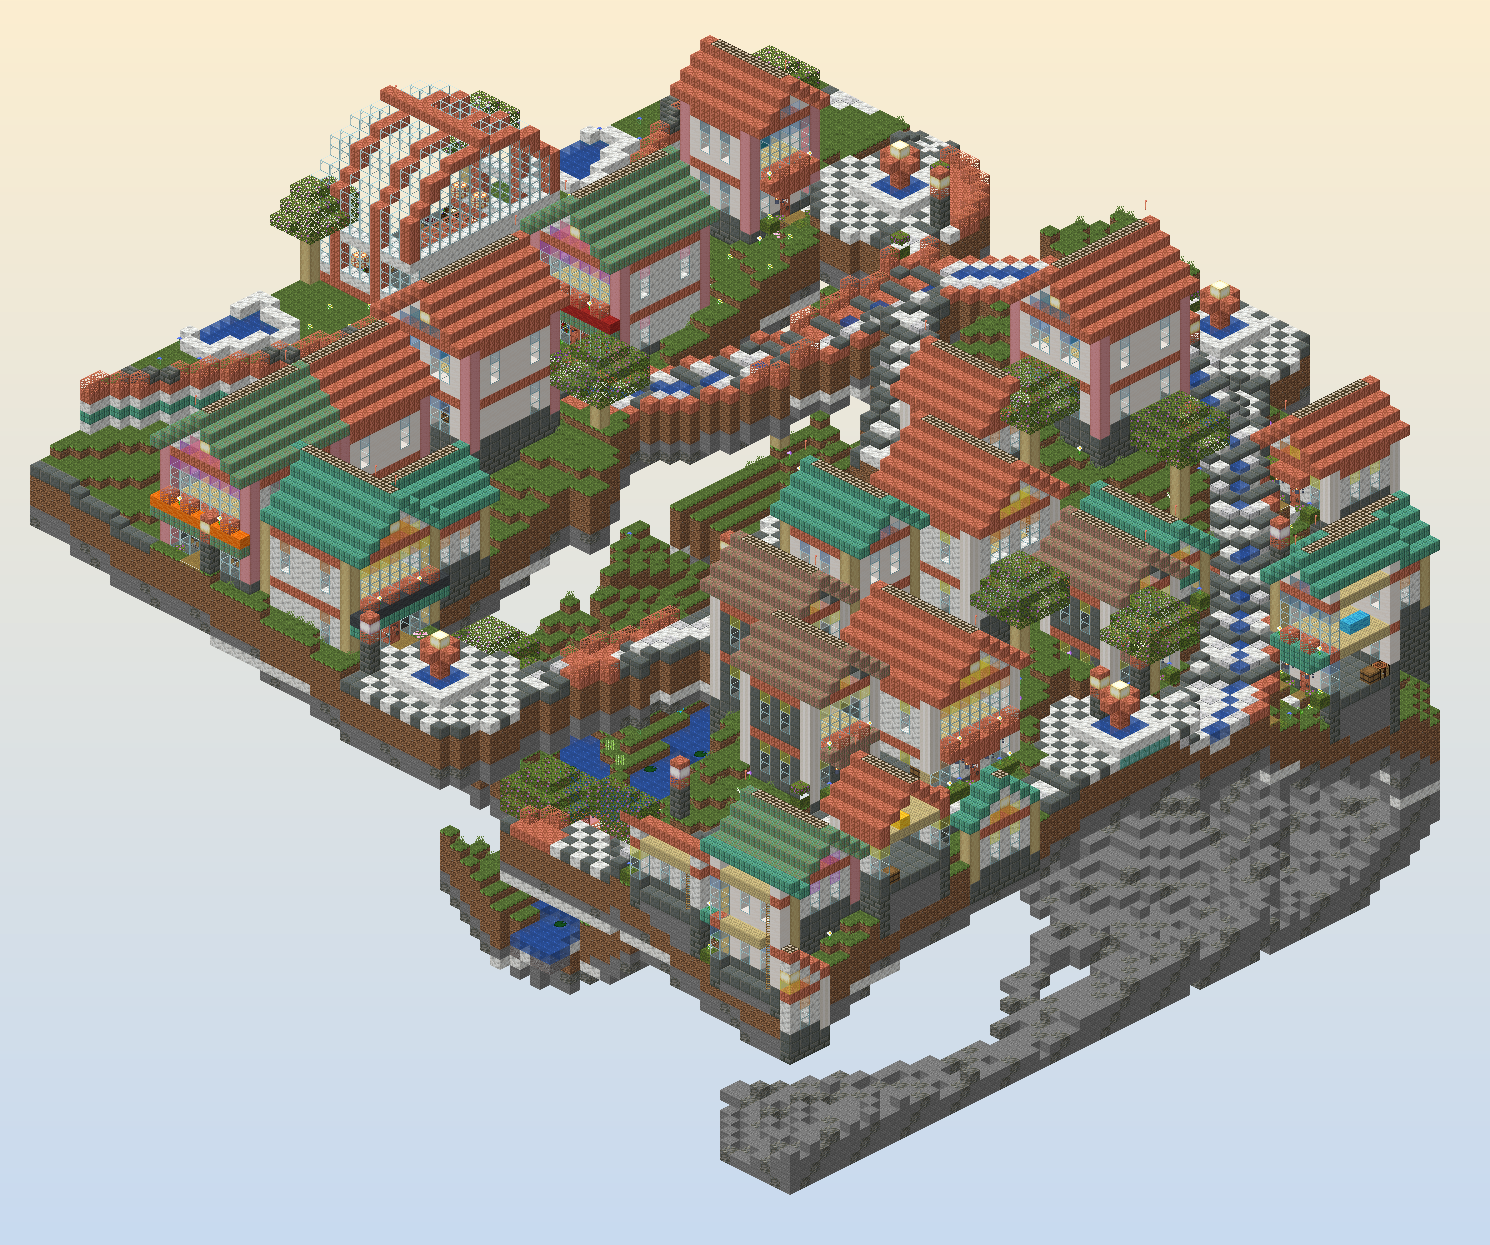
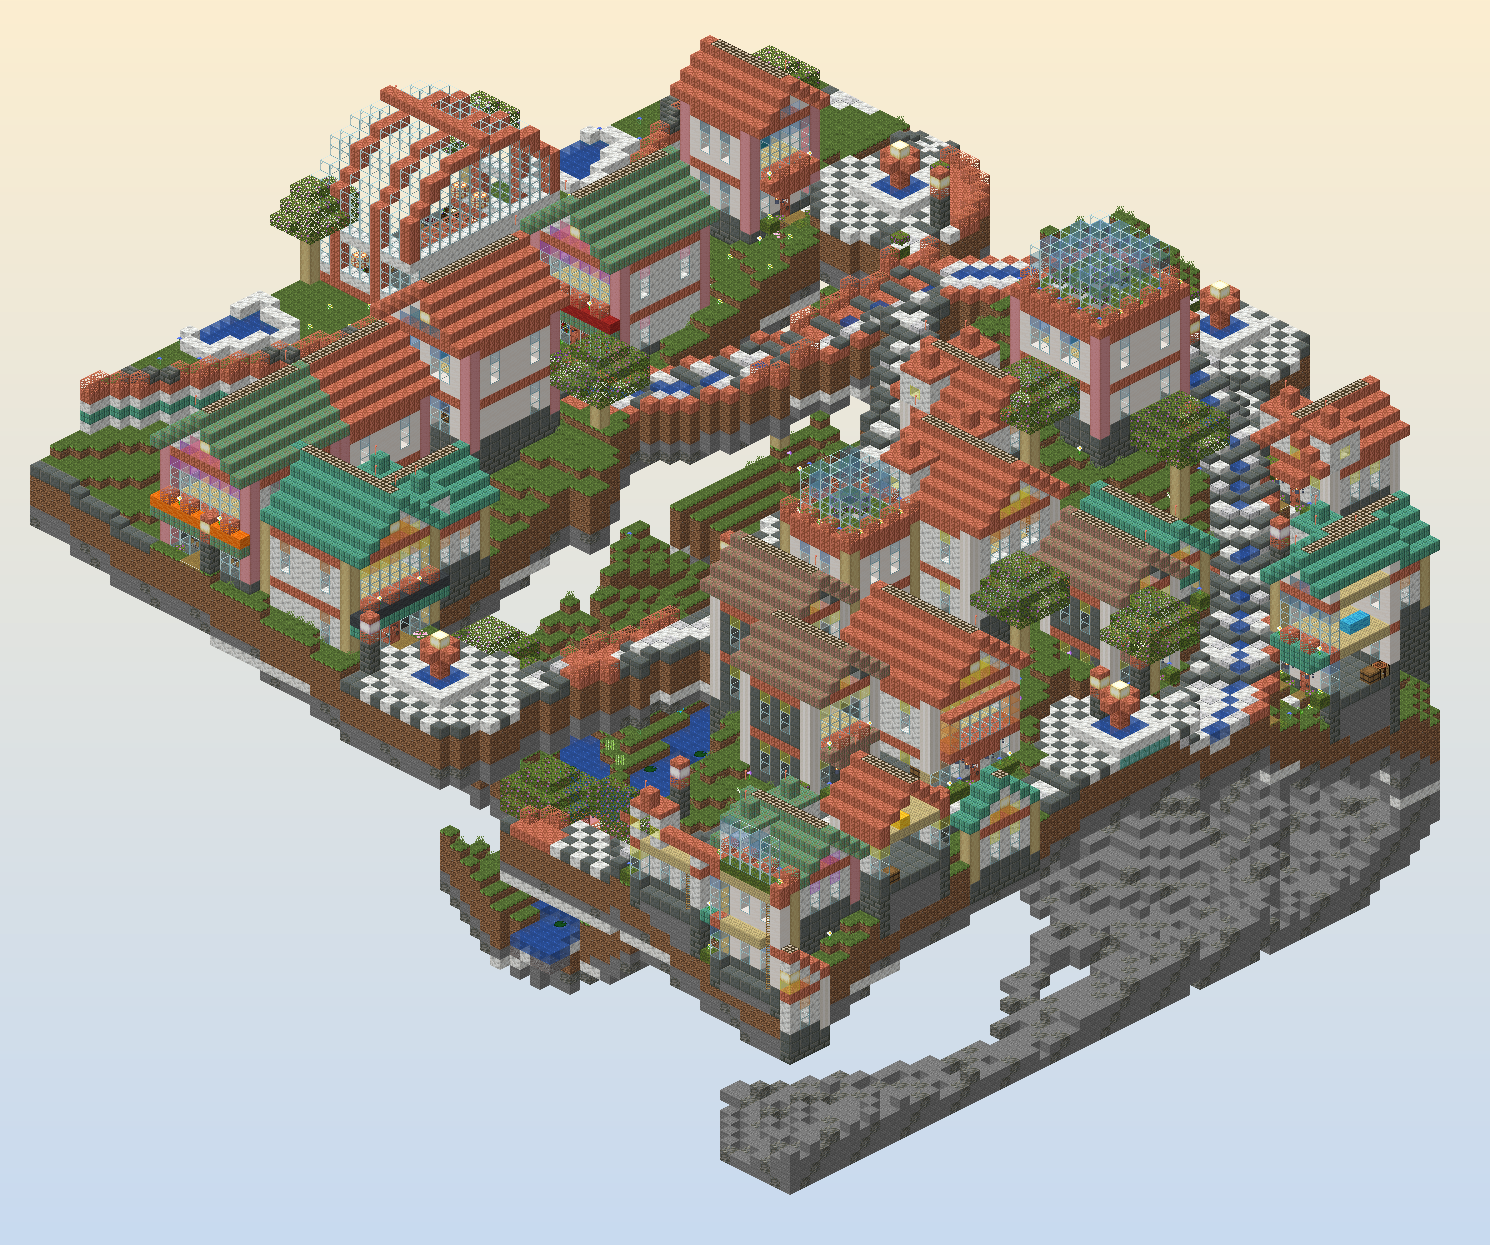
Solsticio draft 5: house variants (bay windows, rooftop greenhouses, corner turrets)

diff --git a/art/solsticio/city5.py b/art/solsticio/city5.py
@@ -531,6 +531,47 @@ def building(kind, st, floors, hw=4, D=9):
                 L[(u, top + 1, w)] = blk
             L[(0, top + 2, w)] = B('ochre_froglight')
     L[(0, top + hw + 3, -1)] = B('lightning_rod[facing=up,powered=false,waterlogged=false]')
+    variant = st.get('variant', 'gable') if not shop else 'gable'
+    if variant == 'bay':
+        for s_ in range(1, floors):
+            y0 = 5 * s_
+            for u in range(-(hw - 1), hw):
+                for y in (y0 + 1, y0 + 2, y0 + 3):
+                    L[(u, y, -1)] = g2 if abs(u) == hw - 1 else B('glass')
+                L[(u, y0 + 4, -1)] = B(roof + '_slab[type=bottom,waterlogged=false]')
+                L[(u, y0, -1)] = B(roof + '_slab[type=top,waterlogged=false]')
+                L[(u, y0 + 1, 0)] = AIR if u else L[(u, y0 + 1, 0)]
+    elif variant == 'greenhouse':
+        for key in [k for k in L if k[1] > top]:
+            del L[key]
+        for u in range(-hw, hw + 1):
+            for w in range(0, D):
+                L[(u, top + 1, w)] = B('waxed_cut_copper') if (abs(u) == hw or w in (0, back)) else B('moss_block')
+                if abs(u) == hw or w in (0, back):
+                    L[(u, top + 2, w)] = B('waxed_copper_grate') if (u + w) % 2 else B('potted_' + flower[(u * 3 + w) % len(flower)])
+        for u in range(-(hw - 1), hw):
+            for w in range(1, back):
+                edge = abs(u) == hw - 1 or w in (1, back - 1)
+                for y in (top + 2, top + 3, top + 4):
+                    if edge:
+                        L[(u, y, w)] = B('glass') if y < top + 4 or (u + w) % 2 else g1
+                    else:
+                        L[(u, y, w)] = AIR
+                L[(u, top + 5, w)] = B('glass') if (u + w) % 3 else g2
+                if not edge and (u + w) % 2 == 0:
+                    L[(u, top + 2, w)] = B('flowering_azalea') if (u * w) % 3 == 0 else B(flower[(u + w) % len(flower)])
+        L[(0, top + 2, 1)] = B('glass_pane[east=true,north=false,south=false,waterlogged=false,west=true]')
+    elif variant == 'turrets':
+        for sg in (-1, 1):
+            cu = sg * (hw - 1)
+            for du in (-1, 0, 1):
+                for w in (0, 1, 2):
+                    for y in range(top + 1, top + 4):
+                        edge = abs(du) == 1 or w != 1
+                        L[(cu + du, y, w)] = (g1 if (y == top + 2 and (du == 0 or w == 1)) else wall) if edge else AIR
+                    L[(cu + du, top + 4, w)] = B(roof + '_slab[type=bottom,waterlogged=false]') if (du or w != 1) else B(roof)
+            L[(cu, top + 5, 1)] = B(roof)
+            L[(cu, top + 6, 1)] = B('lightning_rod[facing=up,powered=false,waterlogged=false]')
     return L, marks
 
 
@@ -784,7 +825,7 @@ def footbridges():
 
 def place_lots():
     for (fx, fz, s, e, pad, bkind, idx, hw, D) in LOTS:
-        st = STYLES[idx % len(STYLES)]
+        st = dict(STYLES[idx % len(STYLES)], variant=('gable', 'bay', 'greenhouse', 'turrets')[(idx * 7 + 3) % 4])
         floors = 2 if bkind.startswith('shop:') else (2 + (idx % 3 == 1) if hw == 4 else 1 + (idx % 2))
         L, marks = building(bkind, st, floors, hw, D)
         f = lambda v: (v[0] * e[0] + v[1] * s[0], v[0] * e[1] + v[1] * s[1])
